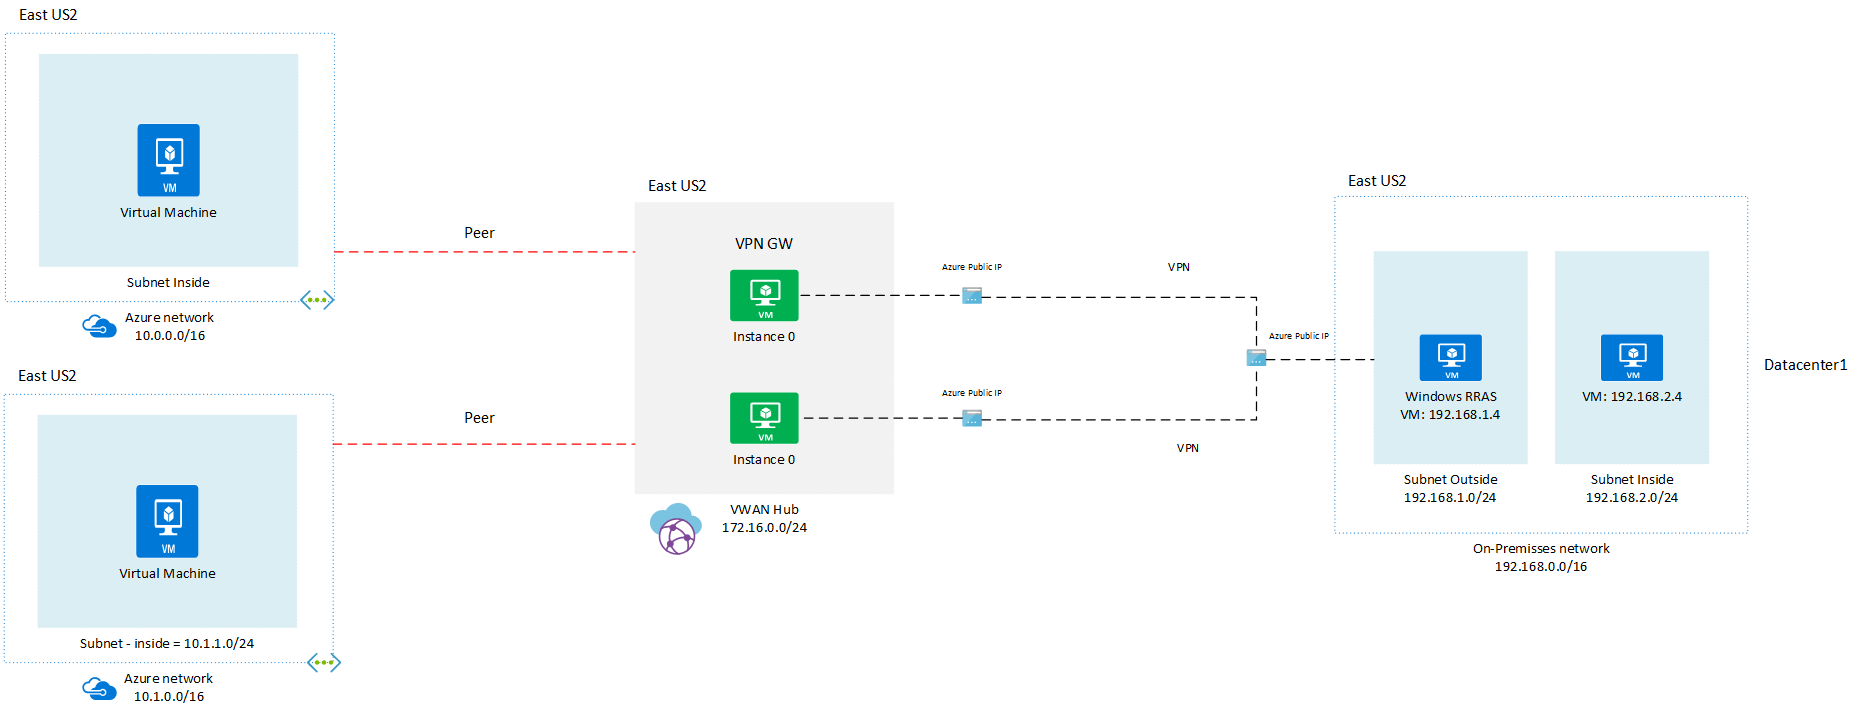
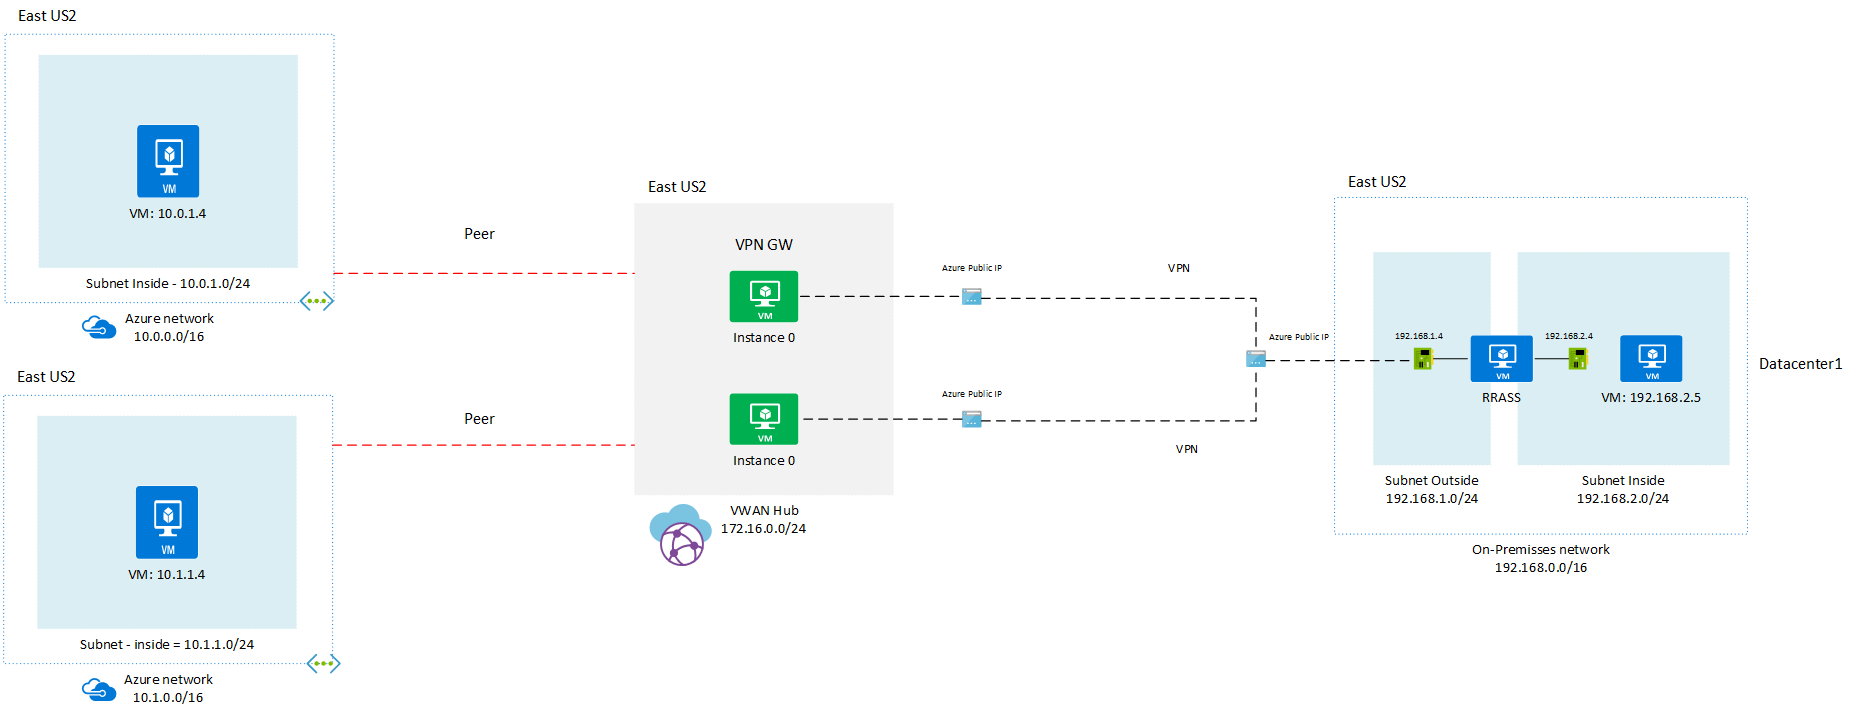
commit all

diff --git a/SDWAN/README.md b/SDWAN/README.md
@@ -1,11 +1,11 @@
 ## Azure Networking Lab - Azure Virtual WAN - Site to Site VPN with Windows RRAS 
 
-This lab will illustrate how to build a basic Virtual WAN infrastructure including an on-premise datacenter. This is for testing purposes only and should not be considered production enviroments. The lab builds"on prem" VNETs allowing you to simulate your infrastructure. The two on prem sites connect to the VWAN hub via an IPSEC/IKEv2 tunnel that is also connected to two VNETs. At the end of the lab, the two on prem sites will be able to talk to the VNETs as well as each other through the tunnel. The base infrastructure configurations for the on prem environments will not be described in detail. The main goal is to quickly build a test VWAN environment so that you can overlay 3rd party integration tools if needed. You only need to access the portal to download the configuration file of VWAN to determine the public IPs of the VPN gateways. All other configs are done in Azure CLI and/or Windows RRASS so you can change them as needed to match your environment.
+This lab will illustrate how to build a basic Virtual WAN infrastructure including an on-premise datacenter. The focus of lab is for testing purposes only and you should not be considered for production enviroments. The lab builds on-premises VNETs allowing you to simulate your local infrastructure. The local datacenter connect to the VWAN hub via an IPSEC/IKEv2 tunnel that is also connected to two VNETs. At the end of the lab, the local datacenter (simulate by on-premise Vnet) will be able to connect to the VNETs as well as each other through the tunnel. The base infrastructure configurations for the on-premise environments will not be described in detail. The main goal is to quickly build a test VWAN environment. You need to access the portal to download the configuration file of VWAN to determine the public IPs of the VPN gateways. All other configs are will done by Azure CLI and/or Windows RRASS so you can change them as needed to match your environment if you prefer.
 
 **Requirements:**
 
-- A valid Azure subscription account. If you don’t have one, you can create your free azure account (https://azure.microsoft.com/en-us/free/) today.
-- Latest Azure CLI, follow these instructions to install: https://docs.microsoft.com/en-us/cli/azure/install-azure-cli
+- Valid the Azure subscription account. If you don’t have one, you can create your free azure account (https://azure.microsoft.com/en-us/free/).
+- Latest Azure CLI, you can follow these instructions to install: https://docs.microsoft.com/en-us/cli/azure/install-azure-cli
 - Check out the Azure Virtual WAN Concepts: https://docs.microsoft.com/en-us/azure/virtual-wan/virtual-wan-global-transit-network-architecture
 
    
@@ -26,4 +26,26 @@ az network vwan create --name EASTUS2VWAN --resource-group LAB-EASTUS2VWAN-RG --
 az network vhub create --address-prefix 192.168.0.0/24 --name EASTUS2VWANHUB --resource-group LAB-EASTUS2VWAN-RG --vwan EASTUS2VWAN --location eastus2
 az network vpn-gateway create --name EASTUS2VWAN --resource-group LAB-EASTUS2VWAN-RG --vhub EASTUS2VWANHUB --location eastus2 --no-wait
 ```
-Deploy the infrastructure for on-premise DC (192.168.0.0/16). This builds out all of the VNET/subnet/routing/VMs needed to simulate on prem including a Windows RRASS and test Windows machine
+Deploy the infrastructure for on-premise Datacenter 1 (192.168.0.0/16). This builds out all of the VNET/subnet/routing/VMs needed to simulate on-premises including a Windows RRASS and Windows test VM.
+
+```Azure CLI
+az group create --name LAB-DC1-RG --location eastus2
+az network vnet create --resource-group LAB-DC1-RG --name LAB-DC1-Vnet --location eastus2 --address-prefixes 192.168.0.0/16 --subnet-name outside --subnet-prefix 192.168.1.0/24
+az network vnet subnet create --address-prefix 192.168.2.0/24 --name inside --resource-group LAB-DC1-RG --vnet-name LAB-DC1-Vnet
+
+az network public-ip create --name ws2016rrass-pip --resource-group LAB-DC1-RG --idle-timeout 30 --allocation-method Static
+az network nic create --name ws2016rrass-nic01 -g LAB-DC1-RG --subnet outside --vnet LAB-DC1-Vnet --public-ip-address ws2016rrass-pip --ip-forwarding true --private-ip-address 192.168.1.4
+az network nic create --name ws2016rrass-nic02 -g LAB-DC1-RG --subnet inside --vnet LAB-DC1-Vnet --ip-forwarding true --private-ip-address 192.168.2.4
+az vm create --resource-group LAB-DC1-RG --location eastus2 --name WSRRAS --size Standard_D2_v2 --nics ws2016rrass-nic01 ws2016rrass-nic02  --image win2016datacenter --admin-username azureuser --admin-password Msft@123456@ --no-wait
+
+az network public-ip create --name ws2016server-pip --resource-group LAB-DC1-RG --location eastus2 --allocation-method Dynamic
+az network nic create --resource-group LAB-DC1-RG -n ws2016server-nic --location eastus2 --subnet inside --vnet-name LAB-DC1-Vnet --public-ip-address ws2016server-pip --private-ip-address 192.168.2.5
+az vm create -n ws2016servervm -g LAB-DC1-RG --image win2016datacenter --admin-username azureuser --admin-password Msft@123456@ --nics ws2016server-nic --no-wait
+
+
+az network route-table create --name LAB-DC1-RT --resource-group LAB-DC1-RG
+az network route-table route create --name connect-to-AzVNET01 --resource-group LAB-DC1-RG --route-table-name LAB-DC1-RT --address-prefix 10.0.0.0/16 --next-hop-type VirtualAppliance --next-hop-ip-address 192.168.2.4
+az network route-table route create --name connect-to-AzVNET02 --resource-group LAB-DC1-RG --route-table-name LAB-DC1-RT --address-prefix 10.1.0.0/16 --next-hop-type VirtualAppliance --next-hop-ip-address 192.168.2.4
+az network vnet subnet update --name inside --vnet-name LAB-DC1-Vnet --resource-group LAB-DC1-RG --route-table LAB-DC1-RT
+
+```
